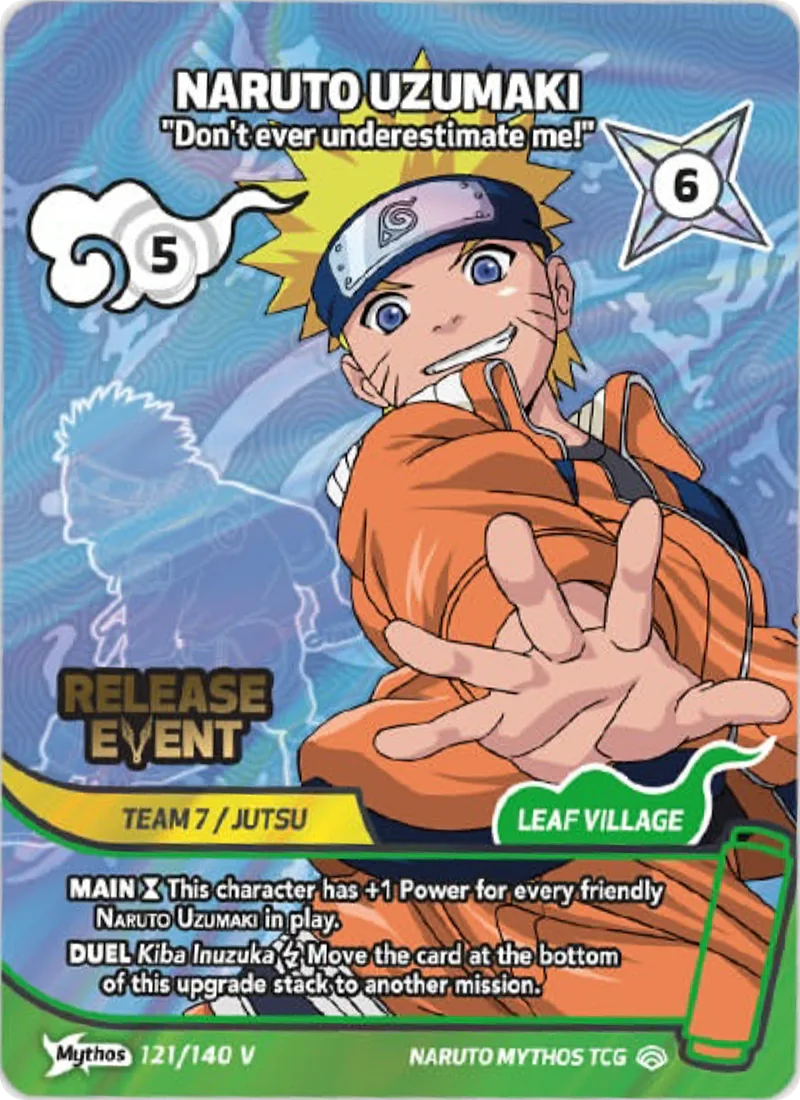
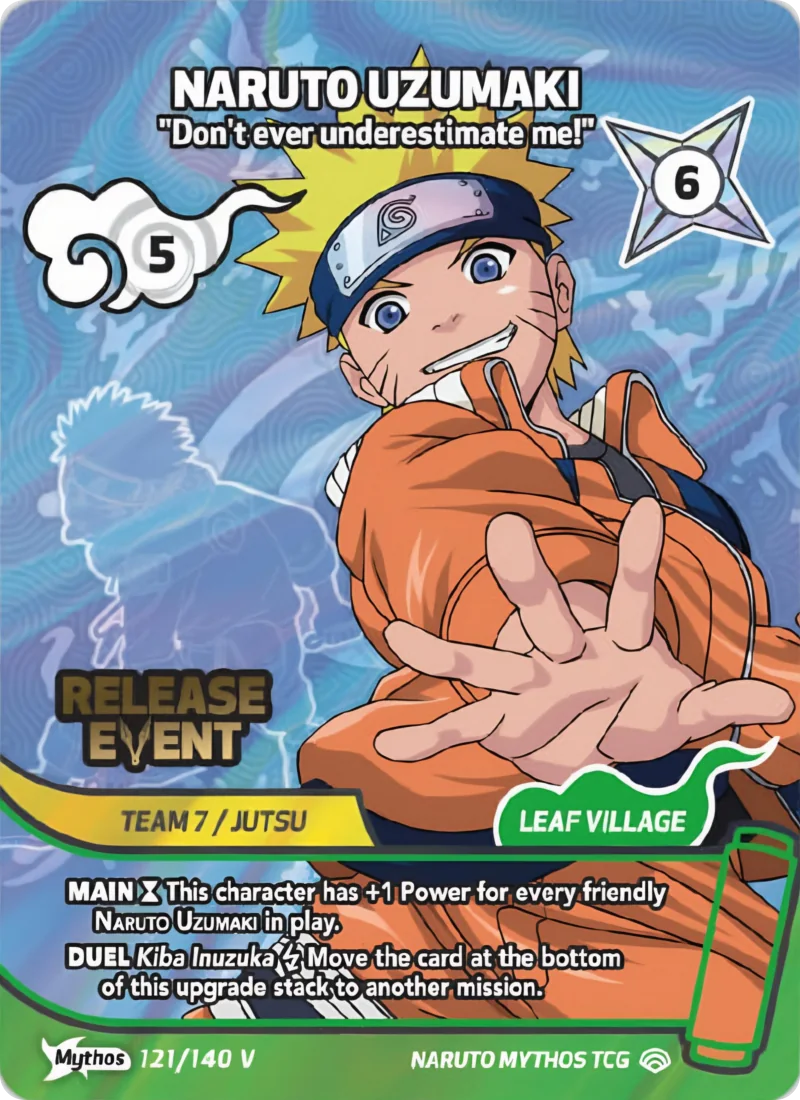
chore: illustrations haute definition pour Naruto 121 et Sasuke 126 de l evenement de sortie

diff --git a/lib/utils/imagePath.ts b/lib/utils/imagePath.ts
@@ -1,5 +1,5 @@
 
-export const IMAGE_VERSION = 21;
+export const IMAGE_VERSION = 22;
 
 export function normalizeImagePath(imageFile?: string): string | null {
   if (!imageFile) return null;
